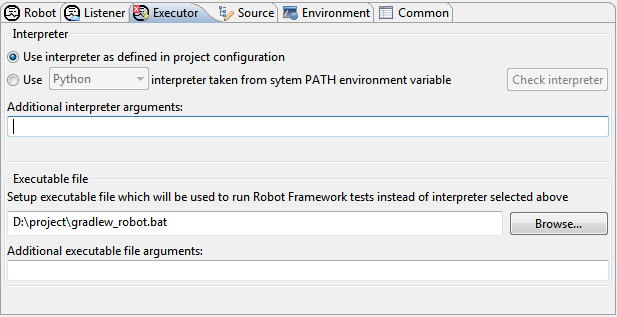
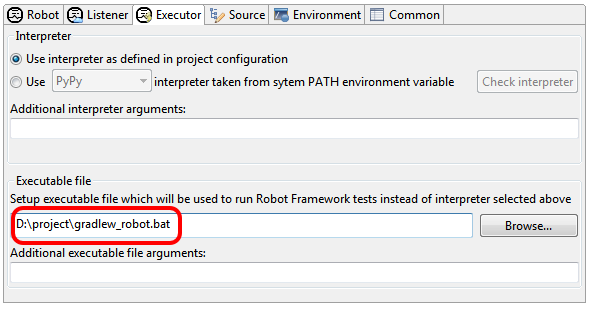
updating Gradle topic with bash script

Changed region(s): [[0.0, 0.0, 1.0, 1.0]]

diff --git a/src/Eclipse-IDE/org.robotframework.ide.eclipse.main.plugin.doc.user/doc/user_guide/tools_integration/gradle.html b/src/Eclipse-IDE/org.robotframework.ide.eclipse.main.plugin.doc.user/doc/user_guide/tools_integration/gradle.html
@@ -24,15 +24,6 @@
 	(CPython, PyPy, Jython, IronPython) while the latter only requires Java (which anyway has
 	to be installed in order to run Gradle).
 	</p>
-
-	<dl class="warning">
-	   <dt>Warning</dt>
-	   <dd>As for now RED cannot use Standalone JAR distribution of RF, so while it would 
-	   possible to run the tests using (2) possibility it is currently not possible to 
-	   have other features of RED like validation, code assistance etc. without having 
-	   python interpreter installed.
-	   </dd>
-	</dl>
 	
 	<h3>Simple Gradle script running external interpreter</h3>
 	<p>We will use following simple script in order to run interpreter from RED: 
@@ -45,8 +36,8 @@
 		}
 	</div>
 	
-	<p>it expects two arguments: path to interpreter executable and a list of it's arguments 
-	written in a form: <span class="code">['arg1', 'arg2', ..., 'arg_n']</span>
+	<p>the task above expects two arguments: path to interpreter executable and a list 
+	of it's arguments written in a form: <span class="code">['arg1', 'arg2', ..., 'arg_n']</span>
 	</p>
 	
 	<p>When launching the test RED does not pass arguments in form like above, moreover 
@@ -63,6 +54,7 @@
 			set EXEC=%1<br/>
 			set RF_ARGS=[<br/>
 			shift<br/>
+			<br/>
 			:loop1<br/>
 			if "%1"=="" goto after_loop<br/>
 			if %FIRST%=="true" (<br/>
@@ -73,26 +65,76 @@
 			shift<br/>
 			set FIRST="false"<br/>
 			goto loop1<br/>
-		
+			<br/>
 			:after_loop<br/>
 			set RF_ARGS=%RF_ARGS:\=/%]<br/>
-	
+			<br/>
 			call gradlew.bat runRobot -ProbotExec=%EXEC% -ProbotArguments="%RF_ARGS%"<br/>
 			</div>
-			<p>It is now possible to run tests with the script above: in order to do it
-			create Robot Launch configuration set executable file at <b>Executor</b> tab 
-			and launch the tests. 
-			</p>
-			<img src="images/gradle_win.png"/>
+		</li>
+		
+		<li><b>Linux bash script</b> - <span class="code">gradlew_robot.sh</span>
+			<div class="code">
+			#!/usr/bin/env bash<br/>
+			<br/>
+			first=1<br/>
+			exec=$1<br/>
+			restvar="["<br/>
+			<br/>
+			shift<br/>
+			for var in "$@"<br/>
+			do<br/>
+			&nbsp;&nbsp;&nbsp;&nbsp;if [ $first -eq 1]; then<br/>
+			&nbsp;&nbsp;&nbsp;&nbsp;&nbsp;&nbsp;&nbsp;&nbsp;restvar="$restvar'$var'"<br/>
+			&nbsp;&nbsp;&nbsp;&nbsp;else<br/>
+			&nbsp;&nbsp;&nbsp;&nbsp;&nbsp;&nbsp;&nbsp;&nbsp;restvar="$restvar,'$var'"<br/>
+			&nbsp;&nbsp;&nbsp;&nbsp;fi<br/>
+			&nbsp;&nbsp;&nbsp;&nbsp;first=0<br/>
+			done<br/>
+			restvar="$restvar]"<br/>
+			<br/>
+			./gradlew runRobot -ProbotExec=$exec -ProbotArguments=$restvar<br/>
+			</div>
 		</li>
 	</ul>
-	
+
+	<p>
+		It is now possible to run tests with the script above: create Robot
+		launch configuration and set executable file at <b>Executor</b> tab
+		and launch the tests as depicted on images below.
+	</p>
+	<p><img src="images/gradle_win.png"/></p>
+	<p><img src="images/gradle_linux.png"/></p>
+
 	<dl class="note">
 	   <dt>Note</dt>
 	   <dd>Instead of specifying script at <b>Executor</b> tab manually it is possible to define
-	   default value of executor script path in Preferences, which will be used when creating 
-	   launch configurations.
+	   default value of executor script path in Preferences
+	   (at <i><a class="command" href="javascript:executeCommand('org.eclipse.ui.window.preferences(preferencePageId=org.robotframework.ide.eclipse.main.plugin.preferences.launch.default)')">
+	   Window-&gt;Preferences-&gt;Robot Framework-&gt;Default Launch Configurations
+	   </a></i> set <b>Executable file</b> to desired executable). Now every time new launch 
+	   configuration is created it will use given executable by default.
 	   </dd>
 	</dl>
+	
+	
+	<h3>Gradle scripts running Standalone JAR distribution</h3>
+	
+	<p>Running the tests through Gradle plugin which uses standalone JAR is very similar to running 
+	the tests using external interpreter, the only thing is that 
+	the script has to translate arguments into a form which is used by the plugin, which may of course vary
+	depending on Gradle plugin in use. The batch/bash scripts from above may be adapted and used when calling
+	tests this way.
+	</p>
+
+	<dl class="warning">
+	   <dt>Warning</dt>
+	   <dd>As for now RED cannot use Standalone JAR distribution of RF as environment, so while it would 
+	   possible to run the tests using (2) method it is currently not possible to 
+	   have other features of RED like validation, code assistance etc. working without having 
+	   python interpreter installed.
+	   </dd>
+	</dl>
+	
 </body>
 </html>

diff --git a/src/Eclipse-IDE/org.robotframework.ide.eclipse.main.plugin.doc.user/style.css b/src/Eclipse-IDE/org.robotframework.ide.eclipse.main.plugin.doc.user/style.css
@@ -24,14 +24,16 @@ a.command {
 	background-position: 0 5px;
 	padding-left: 20px;
 }
-
 div.code {
 	font-family: monospace;
     background: #eee;
     margin: 8px;
     padding: 6px;
 }
-
+img.bordered {
+	margin: 5px;
+	border: 1px #999 solid;
+}
 dl.note {
 	margin: 10px;
 	padding-left: 50px;
